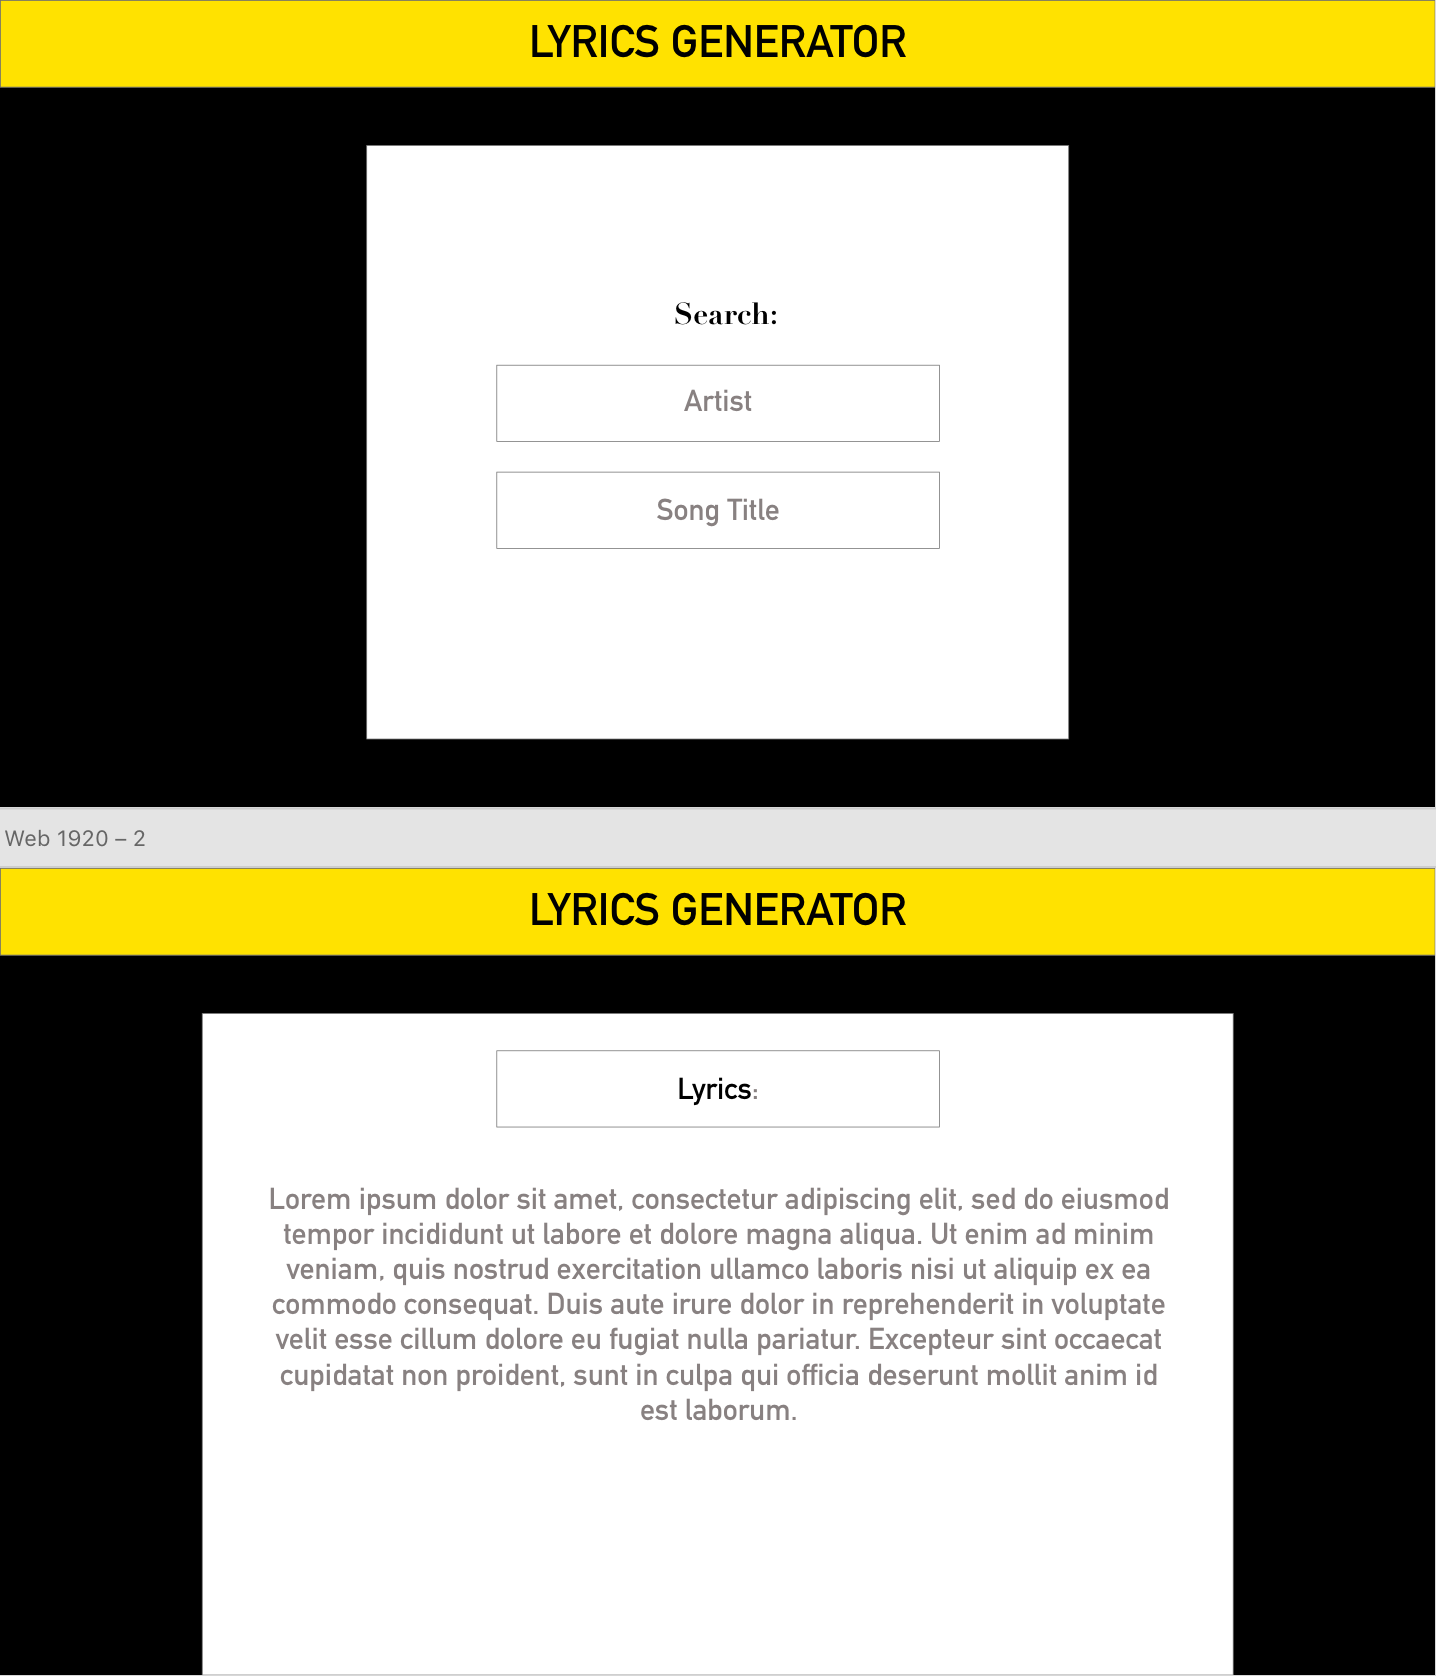
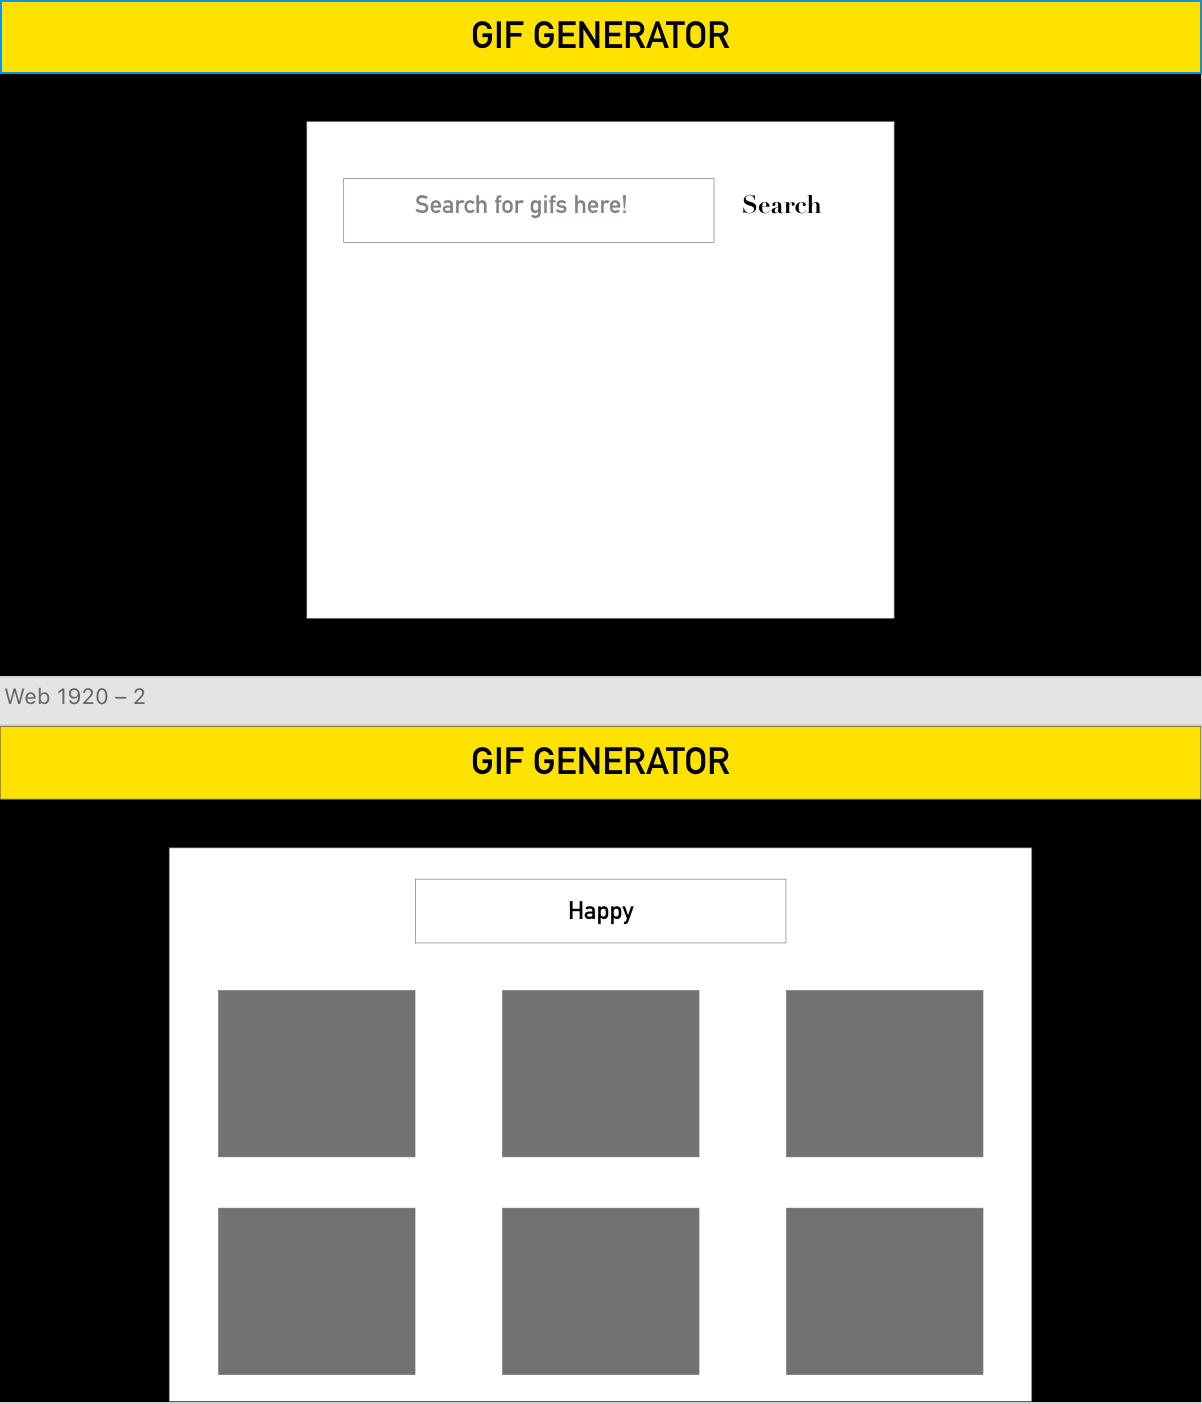
changed what im doing

diff --git a/lyric_generator/src/components/Search.js b/lyric_generator/src/components/Search.js
@@ -3,7 +3,7 @@ import React from 'react';
 const Search = () => {
     return (
         <form className="searchform">
-            <input className="searchbar" type="text" placeholder="Enter song and artist name" />
+            <input className="searchbar" type="text" placeholder="Search for a gif here! " />
             <button className="searchbutton" type="submit">Search</button>
         </form>
     )    

diff --git a/lyric_generator/src/App.js b/lyric_generator/src/App.js
@@ -9,7 +9,7 @@ class App extends Component {
     return (
       <Router>
       <div id="app">
-        <nav className="navBar">LYRIC GENERATOR</nav>
+        <nav className="navBar">GIF GENERATOR</nav>
         <Search />
       </div>
       </Router>
